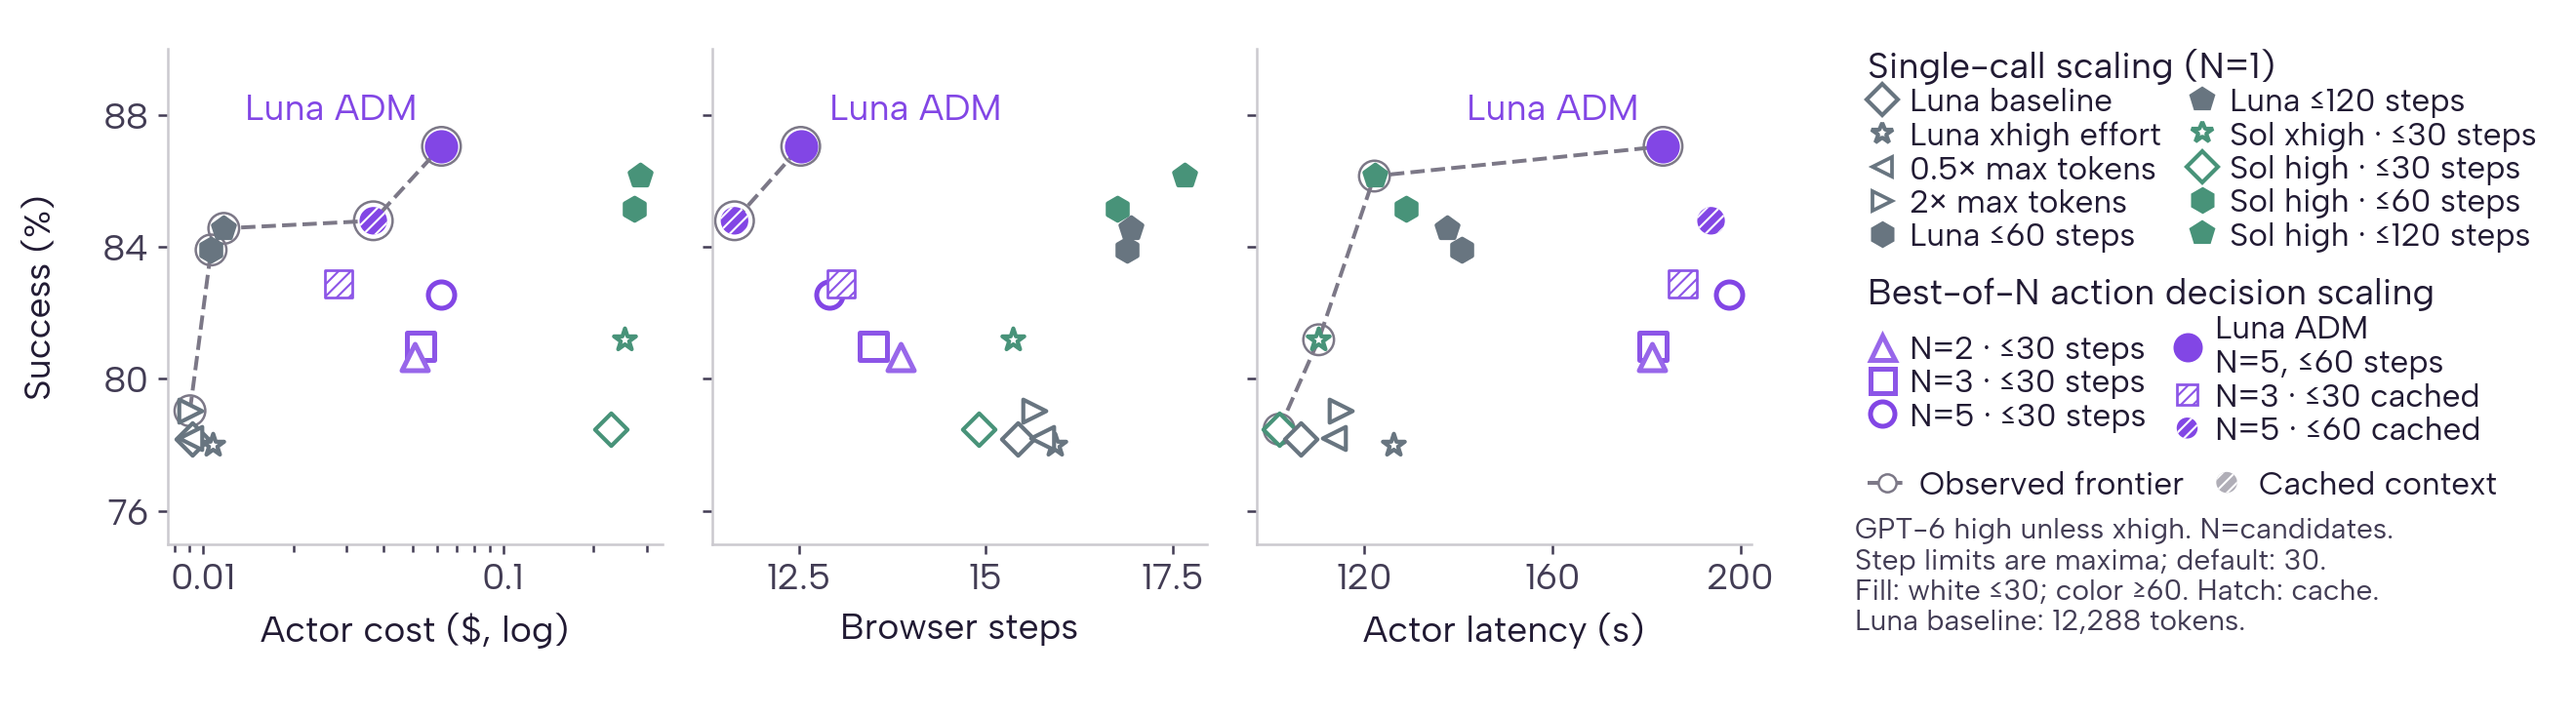
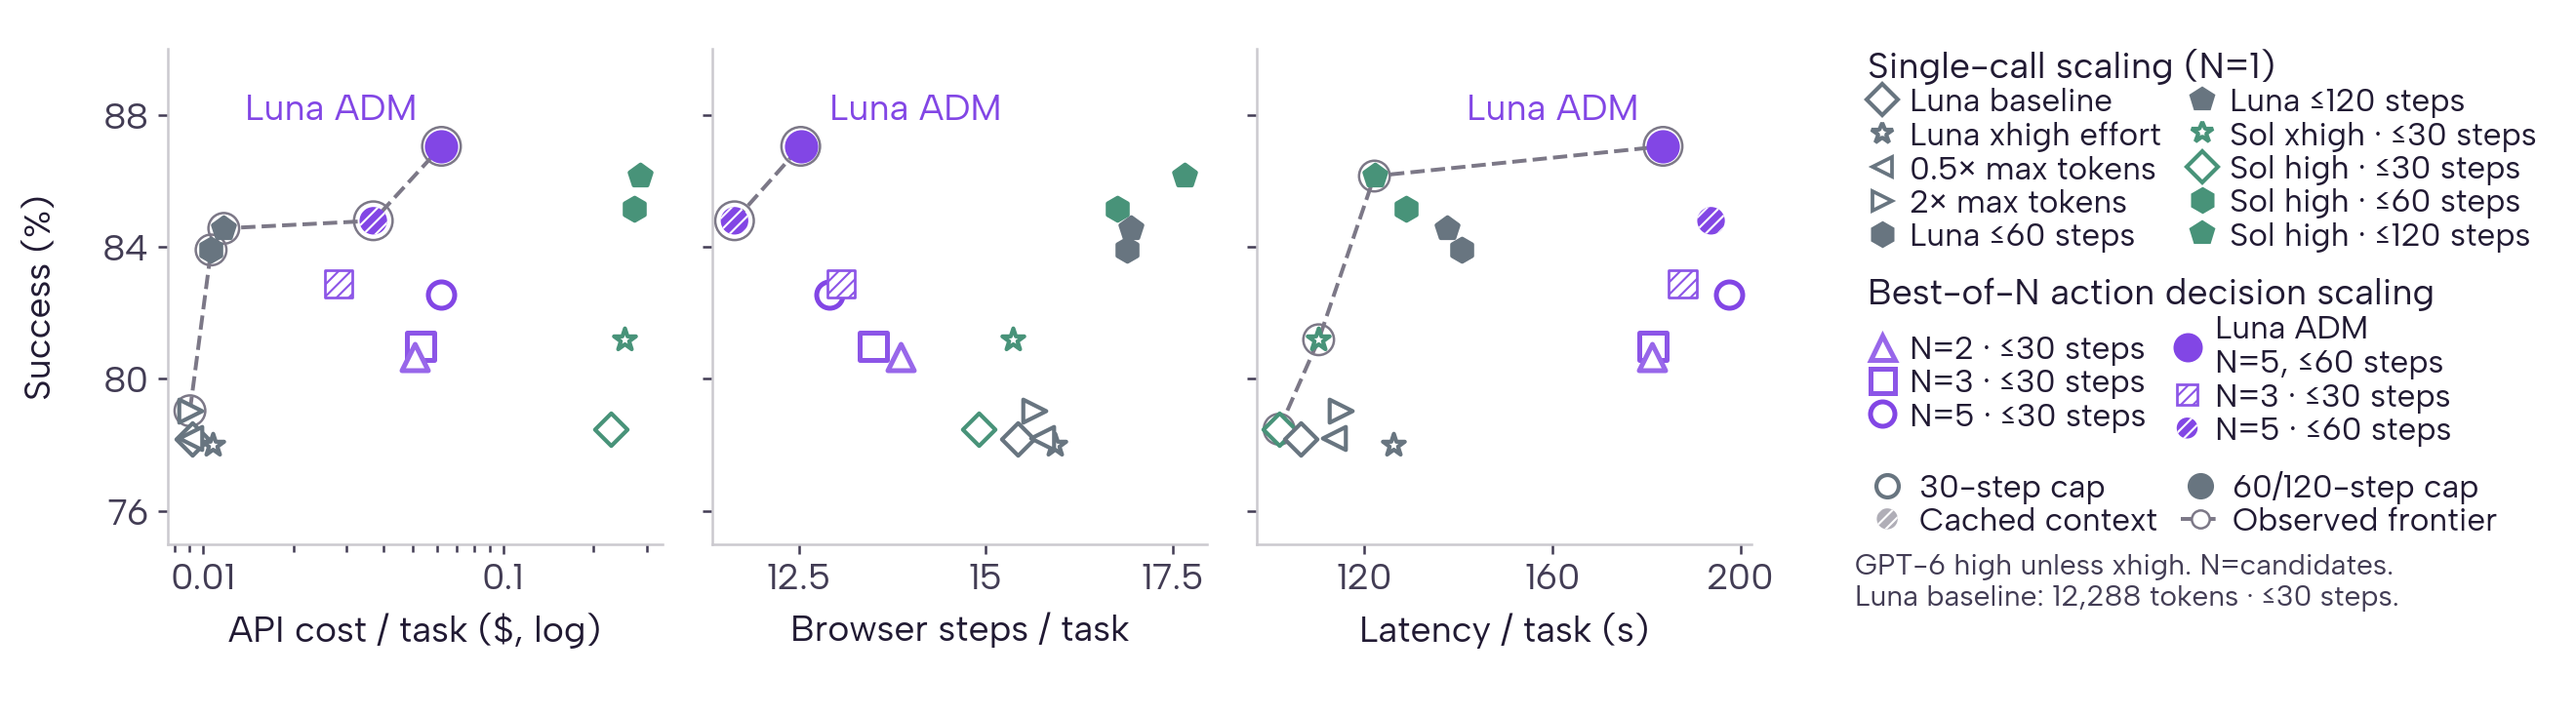
Clarify per-task scaling axes and consolidate visual encoding keys

diff --git a/openwebrl/docs/arm_results/browsercode_inference_scaling_20261031/plot_browsercode_pareto_highlight_right_legend_preview.py b/openwebrl/docs/arm_results/browsercode_inference_scaling_20261031/plot_browsercode_pareto_highlight_right_legend_preview.py
@@ -22,6 +22,7 @@ import matplotlib
 matplotlib.use("Agg")
 import matplotlib.pyplot as plt
 from matplotlib.legend_handler import HandlerPatch
+from matplotlib.lines import Line2D
 from matplotlib.markers import MarkerStyle
 from matplotlib.patches import Circle, Rectangle
 
@@ -87,8 +88,9 @@ def right_layout(fig, previous=None, height=2.4451461988304095):
         text.remove()
     fig.set_size_inches(8.8, height)
     fig.subplots_adjust(left=.065, right=.68, top=.95, bottom=.22, wspace=.10)
-    for ax in fig.axes:
+    for ax, label in zip(fig.axes, ("API cost / task ($, log)", "Browser steps / task", "Latency / task (s)")):
         ax.set_box_aspect(1)
+        ax.set_xlabel(label)
     fig.axes[0].set_ylabel("")
     sidebar_x, top = .72, .95
     handlers = {Circle: HandlerPatch(patch_func=legend_circle), Rectangle: HandlerPatch(patch_func=legend_square)}
@@ -110,8 +112,8 @@ def right_layout(fig, previous=None, height=2.4451461988304095):
         # Explicit maximum-step notation in both legend groups.
         labels = [label.replace("30 steps", "≤30 steps").replace("60 steps", "≤60 steps")
                         .replace("120 steps", "≤120 steps")
-                        .replace("N=3/30 cached", "N=3 · ≤30 cached")
-                        .replace("N=5/60 cached", "N=5 · ≤60 cached")
+                        .replace("N=3/30 cached", "N=3 · ≤30 steps")
+                        .replace("N=5/60 cached", "N=5 · ≤60 steps")
                         .replace("N=5, 60 steps", "N=5 · ≤60 steps") for label in labels]
         title = old.get_title().get_text() if j == 0 else "Best-of-N action decision scaling"
         legend = fig.legend(handles, labels, title=title, loc="upper left",
@@ -122,7 +124,12 @@ def right_layout(fig, previous=None, height=2.4451461988304095):
         fig.canvas.draw()
         top = legend.get_window_extent(fig.canvas.get_renderer()).y0 / fig.bbox.height - .015 / fig.get_figheight()
     frontier = copy.copy(previous[2].get_lines()[0])
-    encoding = fig.legend([frontier, cache_handle()], ["Observed frontier", "Cached context"],
+    white_fill = Line2D([], [], linestyle="none", marker="o", markersize=5.5,
+                        markerfacecolor="white", markeredgecolor=SINGLE_GRAY, markeredgewidth=1)
+    color_fill = Line2D([], [], linestyle="none", marker="o", markersize=5.5,
+                        markerfacecolor=SINGLE_GRAY, markeredgecolor=SINGLE_GRAY, markeredgewidth=1)
+    encoding = fig.legend([white_fill, cache_handle(), color_fill, frontier],
+                          ["30-step cap", "Cached context", "60/120-step cap", "Observed frontier"],
                           loc="upper left", bbox_to_anchor=(sidebar_x, top), ncol=2,
                           fontsize=8, frameon=False, handlelength=1.2, handletextpad=.4,
                           columnspacing=.7, labelspacing=.10, borderaxespad=0,
@@ -130,7 +137,7 @@ def right_layout(fig, previous=None, height=2.4451461988304095):
     fig.canvas.draw()
     footer_top = encoding.get_window_extent(fig.canvas.get_renderer()).y0 / fig.bbox.height - .015 / fig.get_figheight()
     fig.text(sidebar_x, footer_top,
-             "GPT-6 high unless xhigh. N=candidates.\nStep limits are maxima; default: 30.\nFill: white ≤30; color ≥60. Hatch: cache.\nLuna baseline: 12,288 tokens.",
+             "GPT-6 high unless xhigh. N=candidates.\nLuna baseline: 12,288 tokens · ≤30 steps.",
              fontsize=7.2, color=PALETTE["MUTED"], va="top")
     fig.canvas.draw()
     renderer = fig.canvas.get_renderer()
@@ -165,7 +172,7 @@ def right_layout(fig, previous=None, height=2.4451461988304095):
     for ax in fig.axes:
         box = ax.get_window_extent(renderer)
         assert abs(box.width - box.height) < .01, "Plotting area must be square"
-    assert [len(legend.texts) for legend in fig.legends] == [10, 6, 2]
+    assert [len(legend.texts) for legend in fig.legends] == [10, 6, 4]
 
 
 def build():
@@ -285,6 +292,8 @@ def main():
                   frontier=frontier,
                   styles=dict(layout=f"8.8 x {fig.get_figheight():.3f} inches; square panels; legends and footer on the right; no gridlines",
                               axes_box_aspect=1,
+                              axis_labels=["API cost / task ($, log)", "Browser steps / task", "Latency / task (s)"],
+                              encoding_key="Single key for fill (30 vs 60/120 step caps), hatch (cached context), and observed frontier; cached method labels omit redundant cache text.",
                               selection="Saturated purple action decision scaling; gray Luna controls and green Sol controls; slightly lighter purple for smaller candidate sets",
                               single_call_encoding="Baseline: diamond; xhigh: star; 0.5x/2x tokens: left/right triangle; 60/120 steps: hexagon/pentagon. Luna gray, Sol green. Shapes reserved separately from candidate-count shapes.",
                               single_call_markers={key: dict(marker=style[0], filled=style[1]) for key, style in SINGLE_MARKERS.items()},

diff --git a/openwebrl/docs/ARM_FINAL_RESULTS.md b/openwebrl/docs/ARM_FINAL_RESULTS.md
@@ -270,7 +270,7 @@ Dashed segments join the observed nondominated settings in each panel: minimize 
 
 ![Own-valid weighted Pareto plot with right-side legends and sixteen settings, including Sol high/120, Sol xhigh/30 and shaded cached N3/30 and N5/60](arm_results/browsercode_inference_scaling_20261031/browsercode_scaling_weighted_pareto_highlight_right_legend_preview.png)
 
-*Saturated purple and larger markers highlight action decision scaling. Single-call controls use gray for Luna and green for Sol, with distinct marker shapes: hollow diamonds for the baseline, hollow stars for xhigh effort, left/right triangles for 0.5×/2× max tokens, and filled hexagons/pentagons for 60/120 steps. Each of the ten single-call methods has a unique shape/color/fill combination. Best-of-N uses purple triangles for N=2, squares for N=3 and circles for N=5. Across all methods, a white background means a ≤30-step cap and a colored background means a ≤60/≤120-step cap. Cached N=3/30 uses a white-backed square with purple diagonal shading; cached N=5/60 uses a purple-backed circle with white shading. Hatching exclusively denotes caching; the triangle/square/circle shapes are reserved for N=2/3/5 and do not overlap with single-call intervention shapes. Step counts in the legend are explicit maxima (≤30/≤60/≤120), with 30 the default. Smaller candidate sets use slightly lighter purple. Sol high/120 uses a filled green pentagon and Sol xhigh/30 a hollow green star. Both use GPT-6 Sol with the original 12,288-token ceiling and 900-second agent deadline; reasoning effort is high and xhigh, respectively. All fourteen existing coordinates, including cached N3/30 and N5/60, are preserved. Each method uses its own valid tasks. Success and all actor means use the fixed planned benchmark weights 300/1,045, 595/1,045 and 150/1,045; this is not a pooled valid-only rate. Valid populations and live collection windows differ, so frontier membership is descriptive rather than a paired or causal comparison.*
+*Saturated purple and larger markers highlight action decision scaling. Single-call controls use gray for Luna and green for Sol, with distinct marker shapes: hollow diamonds for the baseline, hollow stars for xhigh effort, left/right triangles for 0.5×/2× max tokens, and filled hexagons/pentagons for 60/120 steps. Each of the ten single-call methods has a unique shape/color/fill combination. Best-of-N uses purple triangles for N=2, squares for N=3 and circles for N=5. Across all methods, a white background means a ≤30-step cap and a colored background means a ≤60/≤120-step cap. Cached N=3/30 uses a white-backed square with purple diagonal shading; cached N=5/60 uses a purple-backed circle with white shading. Hatching exclusively denotes caching; the triangle/square/circle shapes are reserved for N=2/3/5 and do not overlap with single-call intervention shapes. A single visual key explains step-cap fill, cache hatching and the observed frontier; cached method labels omit repeated cache text. Step counts in the legend are explicit maxima (≤30/≤60/≤120), with 30 the default. Smaller candidate sets use slightly lighter purple. Sol high/120 uses a filled green pentagon and Sol xhigh/30 a hollow green star. Both use GPT-6 Sol with the original 12,288-token ceiling and 900-second agent deadline; reasoning effort is high and xhigh, respectively. All fourteen existing coordinates, including cached N3/30 and N5/60, are preserved. The x axes show API cost / task ($, log), Browser steps / task, and Latency / task (s). API cost is the frozen native usage-pricing estimate or its upper bound, excluding judging and browser hosting; it is not an invoice. Browser steps count executed nonempty BrowserCode batches, which can each contain multiple browser operations. Latency is elapsed actor-loop time including model and browser work, excluding judging. Each method uses its own valid tasks. Success and all actor means use the fixed planned benchmark weights 300/1,045, 595/1,045 and 150/1,045; this is not a pooled valid-only rate. Valid populations and live collection windows differ, so frontier membership is descriptive rather than a paired or causal comparison.*
 
 | Added setting | Recorded | Valid | Invalid | Successes | OM2W valid | OM2W successes | WebVoyager valid | WebVoyager successes | DeepShop valid | DeepShop successes |
 | --- | ---: | ---: | ---: | ---: | ---: | ---: | ---: | ---: | ---: | ---: |
